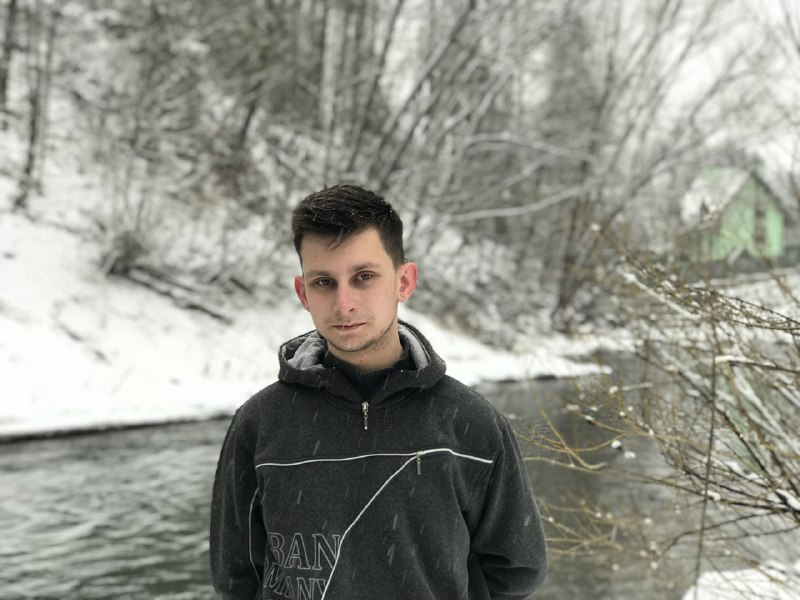
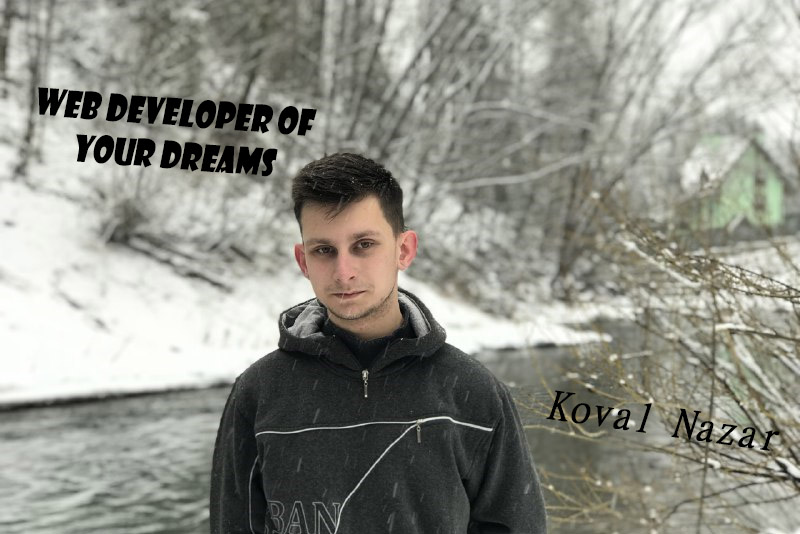
forms+links

diff --git a/index.html b/index.html
@@ -18,13 +18,11 @@
 
             <a href="#my_project">My Project</a>
 
-            <a href="#you_can_find_me_article">You Can Find Me</a>
+            <a href="#you_can_find_me">You Can Find Me</a>
 
             <a href="#write_me">Write Me</a>
         </nav>
 
-        <h1 class=w eb_developer>web developer of your dreams</h1>
-        <h1 clas="name">Koval Nazar</h1>
     </header>
     <main>
 
@@ -34,37 +32,43 @@
         </div>
         <div>
             <h2 id="my_project">My Projects</h2>
-            <div clas="projects_photo"></div>
-            <h2 id="you_can_find_me_article">You Can Find Me</h2>
-            <a class="vk_txt" href="https://vk.com/id155858700">https://vk.com/racoon.com</a>
-            <br>
-            <img src="img/fb.jpg" alt="fb"><a href="https://www.facebook.com/nazar.koval.7587?ref=bookmarks">https://www.facebook.com/racoon</a>
-            <br>
-            <img src="img/mail.jpg" alt="fb"><a href="https://www.nazarko681@gmail.com">https://www.racoon.com</a>
+
+            <h2 id="you_can_find_me">You Can Find Me</h2>
+            <div class="icon">
+                <img class="icon_little" src="img/vk.jpg" width="59" height="61" align="middle" alt="vk"><a class="vk_txt" href="https://vk.com/id155858700">https://vk.com/racoon.com</a>
+                <br>
+                <img class="icon_little" src="img/fb.jpg" width="59" height="61" align="middle" alt="fb"><a class="fb_txt" href="https://www.facebook.com/nazar.koval.7587?ref=bookmarks">https://www.facebook.com/racoon</a>
+                <br>
+                <img class="icon_little" src="img/mail.jpg" width="59" height="61" align="middle" alt="fb"><a class="mail_txt" href="https://www.nazarko681@gmail.com">https://www.racoon.com</a>
+            </div>
         </div>
         <div>
             <h2 id="write_me">Write Me</h2>
-            <fieldset id="form-msg"></fieldset>
-                <label>Your Email:
-                  <input type="email" name="client-email"
-                      placeholder="Email Adress"
+            <div id="form-msg"></div>
+            <form>
+                <label class="email_form">Your Email:
+                  <input id="visitor-email" name="client-email" type="text"
+                    placeholder="Email Adress"
                       required>
                 </label>
-            <br>
-                <label>Your Name:
-                <input id="name" type="text" name="client-name"
+                <br>
+                <label class="name_form">Your Name:
+                <input id="visitor-name" type="text" name="client-name"
                     placeholder="Name"
                     required>
                 </label>
-            <br>
-                <label>Your Message:
-                    <textarea id="visitor-info" required cols="20" rows="5" class="error" aria-invalid="true" placeholder="Message"></textarea>
+                <br>
+                <label class="message_form">Your Message:
+                    <textarea id="visitor-info"
+                    required cols="41" rows="8" class="error" aria-invalid="true" 
+                    placeholder="Message"></textarea>
                 </label>
-            <br>
-                 <input type="submit" value="SEND" id="submit-contact-form" >
+                <br>
+                <input type="submit" value="SEND" id="submit-contact-form">
+            </form>
         </div>
     </main>
-    
+
     <script src="https://code.jquery.com/jquery-3.3.1.min.js" integrity="sha256-FgpCb/KJQlLNfOu91ta32o/NMZxltwRo8QtmkMRdAu8=" crossorigin="anonymous"></script>
     <script src="js/index-form.js"></script>
 </body>

diff --git a/css/index.css b/css/index.css
@@ -1,29 +1,25 @@
 @import url('https://fonts.googleapis.com/css?family=Allan');
 
 body {
+    max-width: 800px;
     margin: 0 auto;
     font-family: sans-serif;
     background-color: #c0c0c0;
 }
 header{
+    max-width: 800px;
     background-image: url("../img/background.jpg");
     background-position: center center;
-    background-size: cover;
     margin: 0 auto;
-    width: 1349px;
-    height: 700px;
+    height: 500px;
 }
 nav {
 	overflow: hidden;
 	float: right;
-
     display: flex;
     align-items: stretch;
 	flex-direction: row;
     justify-content: center;
-}
-.web_developer{
-    margin: 0 auto;
 }
 #about_me  {
     margin: 57px 0 30px 177px;
@@ -39,31 +35,69 @@ nav {
     text-align: center;
 }
 #my_project{
-    margin: 0 0 0 824px;
     font-size:26px;
     font-family: 'sans-serif';
     display: flex;
+    justify-content: flex-end;
 }
-.projects_photo{
-    background-image: url("../img/zenproject.jpg");
-    width: 500px;
-    height: 300px;
-}
-#you_can_find_me_article{
+#you_can_find_me{
     margin: 49px 49px 49px 165px;
     font-size:26px;
     font-family: 'sans-serif';
     display: flex;
-    
-}
-#you_can_find_me{
-    background-image: url("../img/vk.jpg");
-    width: 205px;
-    height: 61px;
-    margin: 41px;
 }
 .vk_txt{
-    margin-left: 40px;
     font-size:24px;
     font-family: 'sans-serif';
+    margin-left: 40px;
+    margin-bottom: 51px;
+} 
+.fb_txt{
+    font-size:24px;
+    font-family: 'sans-serif';
+    margin-left: 40px;
+    margin-bottom: 51px;
+} 
+.mail_txt{
+    font-size:24px;
+    font-family: 'sans-serif';
+    margin-left: 40px;
+    margin-bottom: 51px;
+} 
+.icon_little{
+    margin-left: 41px;
+    margin-bottom: 29px;
+}
+#write_me{
+    margin: 0 0 32px 550px;
+    font-size:26px;
+    font-family: 'sans-serif';
+    display: flex;
+}
+.email_form{
+    font-size: 18px;
+    font-family: 'sans-serif';
+    display: flex;
+    justify-content: flex-end;
+}
+.name_form{
+    font-size: 18px;
+    font-family: 'sans-serif';
+    display: flex;
+    justify-content: flex-end;
+}
+.message_form{
+    font-size: 18px;
+    font-family: 'sans-serif';
+    display: flex;
+    justify-content: flex-end;
+}
+input[type="text"] {
+    font-size: 14px;
+    width: 300px;
+}
+#submit-contact-form {
+    margin-left: 600px;
+    font-size: 16px;
+    width: 100px;
 }

diff --git a/js/index-form.js b/js/index-form.js
@@ -13,9 +13,9 @@ $('#submit-contact-form').click(function(ev){
             dataType: "json"
         }).done(function() {
             $('form')[0].reset();
-            $('#form-msg').html('<p>Thank you for contacting us!</p>')
+            $('#form-msg').alert('<p>Thank you for contacting us!</p>')
         }).fail(function(){
-            $('#form-msg').html('<p>Sorry! An error has occured!</p>')
+            $('#form-msg').alert('<p>Sorry! An error has occured!</p>')
         });
     }
 });
